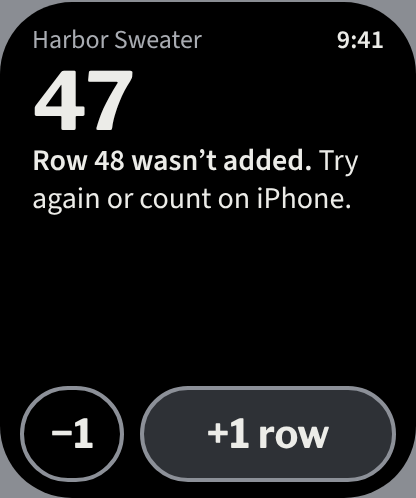
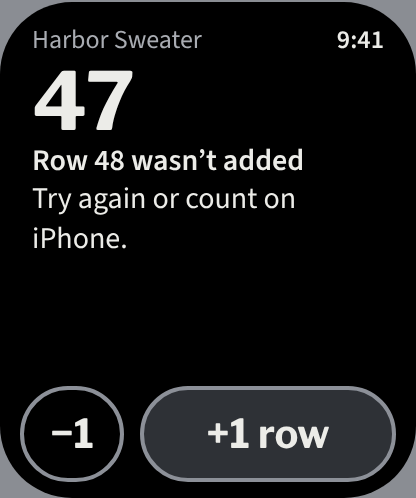
04 fix-3 NZ-05-F4-04 (1b): nagłówek „nie zapisano” na zegarku bez kropki, jak klucz
Nagłówek w osobnym wierszu (jak na ekranie blokady), ten sam tekst klucza
aktywnosc.nie_dodano / aktywnosc.nie_usunieto w obu miejscach; zrzuty odświeżone.

Claude-Session: https://claude.ai/code/session_01RtRZGJoGkwc2AYPibeWgwT

diff --git a/docs/design/aktywnosc.html b/docs/design/aktywnosc.html
@@ -86,7 +86,7 @@ section[data-ekran="zegarek-przypomnienie"] .z-dol .plus, section[data-ekran="ze
 /* „Nie zapisano” (NZ-05-F4-04, P-142 1b): liczba 40 pt jak przy przypomnieniu, komunikat w miejscu podpisu, przyciski zostają */
 section[data-ekran^="zegarek-nie-zapisano"] .z-liczba .n { font-size: calc(40px * min(var(--dt), 1.15)); }
 section[data-ekran^="zegarek-nie-zapisano"] .z-dol .plus, section[data-ekran^="zegarek-nie-zapisano"] .z-dol .minus { min-height: 48px; }
-.z-tekst b { font-weight: 600; }
+.z-tekst b { display: block; font-weight: 600; }
 section[data-ekran^="zegarek"] .zakr::before { background: var(--c-zakreslacz); border-left-color: var(--c-zakr-krawedz); }
 section[data-ekran^="zegarek"] .zakr span { color: var(--c-na-zakreslaczu); font-size: calc(13px * var(--dt)); }
 section[data-ekran^="zegarek"] .info { color: var(--c-grafit); font-size: calc(13px * var(--dt)); padding: 0 6px; }
@@ -253,7 +253,7 @@ section[data-ekran^="zegarek"] .info { color: var(--c-grafit); font-size: calc(1
   <div class="z-gora"><span class="nazwa">Harbor Sweater</span><span class="godz">9:41</span></div>
   <div class="z-srodek">
   <div class="z-liczba"><span class="n">47</span></div>
-  <div class="z-tekst" role="status"><b>Row 48 wasn’t added.</b> Try again or count on iPhone.</div>
+  <div class="z-tekst" role="status"><b>Row 48 wasn’t added</b>Try again or count on iPhone.</div>
   </div>
   <div class="z-dol"><span class="minus" role="button" aria-label="Remove row">−1</span><span class="plus" role="button" aria-label="Add row. Now row 48">+1 row</span></div>
 </section>
@@ -263,7 +263,7 @@ section[data-ekran^="zegarek"] .info { color: var(--c-grafit); font-size: calc(1
   <div class="z-gora"><span class="nazwa">Harbor Sweater</span><span class="godz">9:41</span></div>
   <div class="z-srodek">
   <div class="z-liczba"><span class="n">47</span></div>
-  <div class="z-tekst" role="status"><b>Row 47 wasn’t removed.</b> Try again or count on iPhone.</div>
+  <div class="z-tekst" role="status"><b>Row 47 wasn’t removed</b>Try again or count on iPhone.</div>
   </div>
   <div class="z-dol"><span class="minus" role="button" aria-label="Remove row">−1</span><span class="plus" role="button" aria-label="Add row. Now row 48">+1 row</span></div>
 </section>

diff --git a/docs/design/design-spec.md b/docs/design/design-spec.md
@@ -276,7 +276,7 @@ Makiety: `aktywnosc.html`. Wymiary z Apple HIG „Live Activities”, Specificat
   - Przypomnienie (BR-LIC-015 S2): liczba 40 pt, pod nią pas zakreślacza „Row 13: decrease at both ends · 2 of 5” zamiast podpisu „Now row”; wibracja przy wejściu w rząd (wzorzec haptyki „przypomnienie” z tokenów).
   - Limit: liczba z podpisem „rows done” i linia informacji jak na ekranie blokady; bez przycisków i bez oferty.
   - Telefon poza zasięgiem (ADR-0009): liczenie działa; pod liczbą cicha linia „iPhone not nearby. 3 changes are saved on this watch.” (liczba niepotwierdzonych zdarzeń z listy zegarka); znika po potwierdzeniu `glowa` z kontekstu telefonu. Bez ostrzegawczego koloru (nic nie jest źle).
-  - **Nieudany zapis stuknięcia (ADR-0009 uzupełnienie pkt 2; P-142 (1b)):** zapis do skrzynki zegarka (`fsync`) się nie udał → liczba bez zmian, zamiast podpisu „Now row” komunikat **„Row {{n}} wasn’t added.”** (po −1: **„Row {{n}} wasn’t removed.”**, `{{n}}` = rząd, który miał zostać usunięty, czyli bieżąca liczba skończonych) + „Try again or count on iPhone.” (`wzorce-zrzuty/aktywnosc-zegarek-nie-zapisano*`). Liczba 40 pt (jak przy przypomnieniu), przyciski zostają: ponowienie to jedno stuknięcie, a telefon jest drogą, która działa zawsze (przy pełnej pamięci zegarka ponowienie nie pomoże). **Haptyka:** zamiast `plus` wzorzec `haptykaZegarek.bladZapisu` = `WKHapticType.retry` (HIG „Playing haptics”: „Tells the person that an action failed but they can retry it”, odczyt 2026-10-26) — przy oczach zajętych to jedyny sygnał, że stuknięcie nie weszło; haptyka potwierdzenia nigdy przed udanym zapisem. Bez koloru błędu (jak `blokada-blad-zapisu`): znaczenie niesie tekst i haptyka. Komunikat zastępuje też linię „iPhone not nearby…”; znika po udanym stuknięciu albo po nadejściu kontekstu z telefonu. VoiceOver: ogłoszenie całego komunikatu.
+  - **Nieudany zapis stuknięcia (ADR-0009 uzupełnienie pkt 2; P-142 (1b)):** zapis do skrzynki zegarka (`fsync`) się nie udał → liczba bez zmian, zamiast podpisu „Now row” komunikat: nagłówek **„Row {{n}} wasn’t added”** (po −1: **„Row {{n}} wasn’t removed”**, `{{n}}` = rząd, który miał zostać usunięty, czyli bieżąca liczba skończonych) i pod nim „Try again or count on iPhone.” (`wzorce-zrzuty/aktywnosc-zegarek-nie-zapisano*`). Liczba 40 pt (jak przy przypomnieniu), przyciski zostają: ponowienie to jedno stuknięcie, a telefon jest drogą, która działa zawsze (przy pełnej pamięci zegarka ponowienie nie pomoże). **Haptyka:** zamiast `plus` wzorzec `haptykaZegarek.bladZapisu` = `WKHapticType.retry` (HIG „Playing haptics”: „Tells the person that an action failed but they can retry it”, odczyt 2026-10-26) — przy oczach zajętych to jedyny sygnał, że stuknięcie nie weszło; haptyka potwierdzenia nigdy przed udanym zapisem. Bez koloru błędu (jak `blokada-blad-zapisu`): znaczenie niesie tekst i haptyka. Komunikat zastępuje też linię „iPhone not nearby…”; znika po udanym stuknięciu albo po nadejściu kontekstu z telefonu. VoiceOver: ogłoszenie całego komunikatu.
   - Brak stanu od telefonu (pierwsze uruchomienie zegarka): „Open Oczko on your iPhone to start counting.”, bez przycisków.
 - **Smart Stack (Live Activity na zegarku):** własny widok: znak kresek + nazwa, czas sesji, liczba i „Now row {{n}}”; **bez przycisku** — dotknięcie otwiera aplikację zegarka z +1 i −1 (HIG: przy aplikacji zegarka dotknięcie ją otwiera; jedna droga liczenia na zegarku).
 - **VoiceOver:** karta jako jeden element „{{nazwa}}, {{count}} rows done, now row {{n}}[, session {{czas}}]”; przycisk „Add row. Now row {{n}}” (z instrukcją przy przypomnieniu); −1 na zegarku „Remove row”. Komunikaty stanu (limit, „wasn’t added”) czytane jako część karty.
@@ -298,7 +298,7 @@ Makiety: `aktywnosc.html`. Wymiary z Apple HIG „Live Activities”, Specificat
 | `aktywnosc.nie_dodano` | Row {{n}} wasn’t added | nagłówek stanu odblokowania i błędu zapisu |
 | `aktywnosc.odblokuj` | Unlock iPhone to count. | zamiast „Unlock to count” (P-133 (1.2a)) |
 | `aktywnosc.blad_zapisu` | Try again. | błąd zapisu linii (8A) |
-| `aktywnosc.nie_usunieto` | Row {{n}} wasn’t removed. | zegarek, nieudany zapis −1 (P-142 (1b)); po +1 zegarek używa `aktywnosc.nie_dodano` z kropką na końcu zdania |
+| `aktywnosc.nie_usunieto` | Row {{n}} wasn’t removed | zegarek, nagłówek przy nieudanym zapisie −1 (P-142 (1b)); po +1 nagłówek `aktywnosc.nie_dodano` (ten sam co na ekranie blokady) |
 | `aktywnosc.blad_zapisu_zegarek` | Try again or count on iPhone. | zegarek, nieudany zapis do skrzynki (ADR-0009 pkt 2; P-142 (1b)) |
 | `aktywnosc.bez_telefonu_one` / `aktywnosc.bez_telefonu_other` | iPhone not nearby. {{count}} change is saved on this watch. / iPhone not nearby. {{count}} changes are saved on this watch. | zegarek poza zasięgiem |
 | `aktywnosc.otworz_iphone` | Open Oczko on your iPhone to start counting. | zegarek bez stanu (zamiast „Open Oczko on your iPhone”, 08) |
